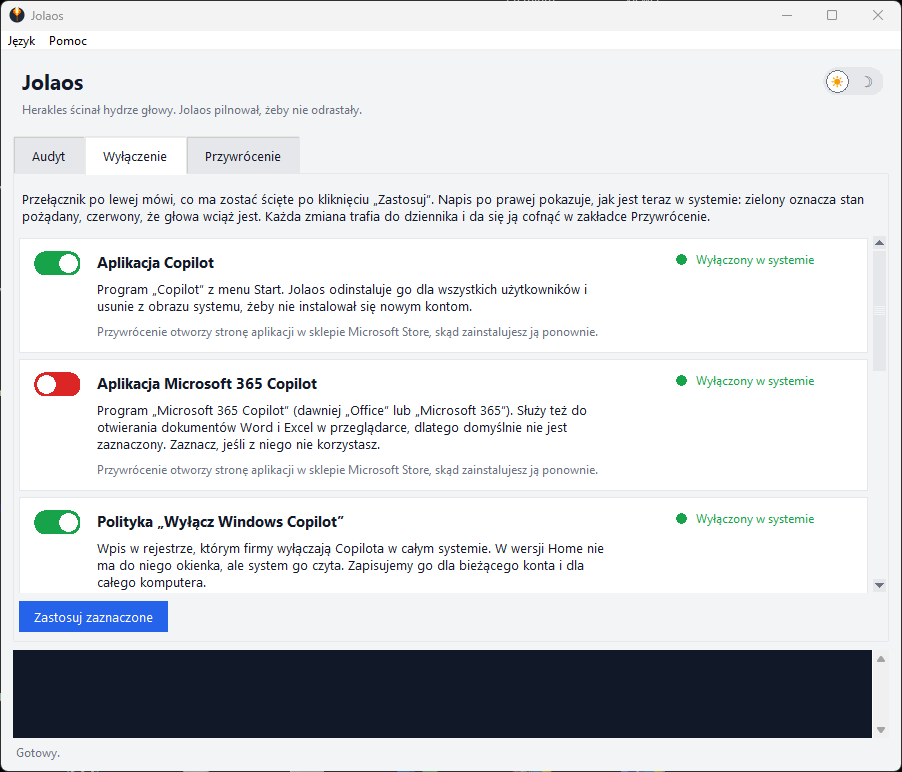
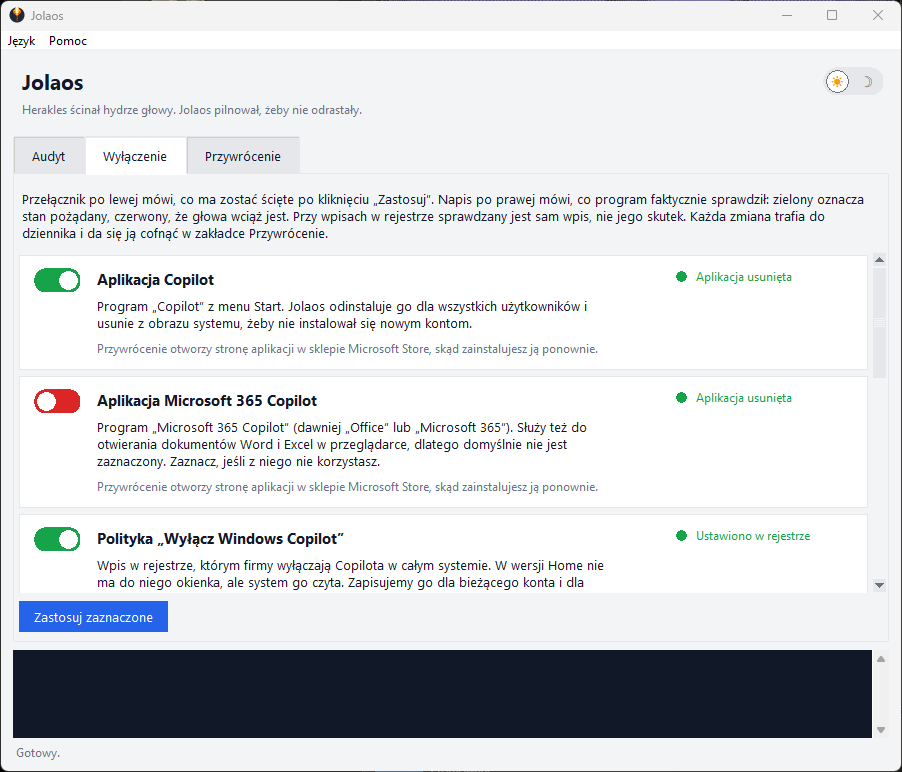
Say only what was checked in the status labels
- registry-based items report "Set in the registry" / "No registry
  entry" instead of claiming the feature is disabled on the system;
  only the program checks the entry, not whether Windows honours it
- store apps report "App installed" / "App removed", which is what
  the package query actually verifies
- tab intros and README state this limitation plainly
- README screenshots refreshed, version 0.1.4

diff --git a/jolaos/i18n.py b/jolaos/i18n.py
@@ -30,9 +30,10 @@ _PL = {
     "tab.restore": "Przywrócenie",
     "audit.intro": (
         "Tu niczego nie zmieniamy. Program tylko sprawdza, w których miejscach Copilot "
-        "jest obecny na tym komputerze. Od tego warto zacząć. Napis po prawej opisuje "
-        "stan w systemie: zielony oznacza, że jest tak, jak chcemy, czerwony, że hydra "
-        "ma tu głowę."
+        "jest obecny na tym komputerze. Od tego warto zacząć. Napis po prawej mówi, co "
+        "program faktycznie sprawdził: zielony oznacza stan, jakiego chcemy, czerwony, że "
+        "hydra ma tu głowę. Przy wpisach w rejestrze sprawdzany jest sam wpis, nie to, czy "
+        "Windows go honoruje."
     ),
     "audit.run": "Sprawdź teraz",
     "audit.running": "Sprawdzanie…",
@@ -40,9 +41,10 @@ _PL = {
     "audit.no_report": "Strażnik nie zostawił jeszcze żadnego raportu.",
     "disable.intro": (
         "Przełącznik po lewej mówi, co ma zostać ścięte po kliknięciu „Zastosuj”. Napis "
-        "po prawej pokazuje, jak jest teraz w systemie: zielony oznacza stan pożądany, "
-        "czerwony, że głowa wciąż jest. Każda zmiana trafia do dziennika i da się ją "
-        "cofnąć w zakładce Przywrócenie."
+        "po prawej mówi, co program faktycznie sprawdził: zielony oznacza stan pożądany, "
+        "czerwony, że głowa wciąż jest. Przy wpisach w rejestrze sprawdzany jest sam wpis, "
+        "nie jego skutek. Każda zmiana trafia do dziennika i da się ją cofnąć w zakładce "
+        "Przywrócenie."
     ),
     "disable.run": "Zastosuj zaznaczone",
     "disable.running": "Wprowadzanie zmian…",
@@ -71,6 +73,11 @@ _PL = {
     "status.error": "Nie udało się sprawdzić",
     "status.guard_missing": "Strażnik nie działa",
     "status.guard_active": "Strażnik czuwa",
+    "status.reg_present": "Brak wpisu w rejestrze",
+    "status.reg_absent": "Ustawiono w rejestrze",
+    "status.reg_partial": "Wpis w rejestrze niepełny",
+    "status.app_present": "Aplikacja zainstalowana",
+    "status.app_absent": "Aplikacja usunięta",
     "status.ready": "Gotowy.",
     "status.need_restart": "Niektóre zmiany zadziałają dopiero po ponownym uruchomieniu komputera.",
     "status.need_relogin": "Niektóre zmiany zobaczysz po ponownym zalogowaniu lub restarcie Eksploratora.",
@@ -145,9 +152,10 @@ _EN = {
     "tab.restore": "Restore",
     "audit.intro": (
         "Nothing is changed here. The program only checks where Copilot is present on "
-        "this computer. This is the place to start. The label on the right describes the "
-        "current state of the system: green means it is the way we want it, red means "
-        "the Hydra still has a head here."
+        "this computer. This is the place to start. The label on the right says what the "
+        "program actually checked: green is the state we want, red means the Hydra still "
+        "has a head here. For registry entries only the entry itself is checked, not "
+        "whether Windows honours it."
     ),
     "audit.run": "Check now",
     "audit.running": "Checking…",
@@ -155,9 +163,10 @@ _EN = {
     "audit.no_report": "The guard has not left a report yet.",
     "disable.intro": (
         "The switch on the left says what will be cut off when you click Apply. The label "
-        "on the right shows the current state of the system: green is the desired state, "
-        "red means the head is still there. Every change is written to a journal and can "
-        "be undone on the Restore tab."
+        "on the right says what the program actually checked: green is the desired state, "
+        "red means the head is still there. For registry entries only the entry itself is "
+        "checked, not its effect. Every change is written to a journal and can be undone "
+        "on the Restore tab."
     ),
     "disable.run": "Apply selected",
     "disable.running": "Applying changes…",
@@ -185,6 +194,11 @@ _EN = {
     "status.error": "Could not check",
     "status.guard_missing": "Guard not running",
     "status.guard_active": "Guard is watching",
+    "status.reg_present": "No registry entry",
+    "status.reg_absent": "Set in the registry",
+    "status.reg_partial": "Registry entry incomplete",
+    "status.app_present": "App installed",
+    "status.app_absent": "App removed",
     "status.ready": "Ready.",
     "status.need_restart": "Some changes take effect after a restart of the computer.",
     "status.need_relogin": "Some changes appear after signing in again or restarting Explorer.",

diff --git a/jolaos/heads.py b/jolaos/heads.py
@@ -71,9 +71,21 @@ class Head:
 # Głowy oparte na rejestrze
 
 
+REGISTRY_LABELS = {
+    Status.PRESENT: "status.reg_present",
+    Status.ABSENT: "status.reg_absent",
+    Status.PARTIAL: "status.reg_partial",
+}
+APP_LABELS = {
+    Status.PRESENT: "status.app_present",
+    Status.ABSENT: "status.app_absent",
+}
+
+
 @dataclass
 class RegistryHead(Head):
     values: tuple[RegValue, ...] = ()
+    status_labels: dict[Status, str] = field(default_factory=lambda: dict(REGISTRY_LABELS))
 
     def audit(self) -> AuditResult:
         matched = 0
@@ -129,6 +141,7 @@ class RegistryHead(Head):
 class AppxHead(Head):
     package_names: tuple[str, ...] = ()
     store_id: str = ""
+    status_labels: dict[Status, str] = field(default_factory=lambda: dict(APP_LABELS))
 
     def _query(self) -> tuple[list[dict], list[dict]]:
         names = ", ".join(f"'{n}'" for n in self.package_names)
@@ -221,6 +234,8 @@ def build_scancode_map(entries: list[tuple[int, int]]) -> bytes:
 
 @dataclass
 class CopilotKeyHead(Head):
+    status_labels: dict[Status, str] = field(default_factory=lambda: dict(REGISTRY_LABELS))
+
     def _current(self) -> tuple[bytes | None, list[tuple[int, int]]]:
         current = winapi.read_value("HKLM", SCANCODE_PATH, SCANCODE_NAME)
         raw = bytes.fromhex(current["data"]) if current and current["kind"] == "binary" else None

diff --git a/jolaos/__init__.py b/jolaos/__init__.py
@@ -1,4 +1,4 @@
 """Jolaos wyłącza Copilota w Windows 11 Home i pilnuje, żeby nie wrócił."""
 
-__version__ = "0.1.3"
+__version__ = "0.1.4"
 APP_NAME = "Jolaos"

diff --git a/README.md b/README.md
@@ -79,6 +79,7 @@ Nieśmiertelnej głowy Herakles nie zabił. Przywalił ją kamieniem i poszedł 
 - Nie gwarantuje, że następna wersja Windows nie przyniesie Copilota w nowym miejscu. Gwarantuje, że to zauważy.
 - Nie zastępuje zasad grupy ani Intune w firmie. Jeśli zarządzasz flotą komputerów, użyj narzędzi do tego przeznaczonych.
 - Nie potrafi ponownie zainstalować usuniętej aplikacji ze sklepu. Przy przywracaniu otwiera jej stronę w Microsoft Store, resztę robisz sam.
+- Nie sprawdza, czy Windows honoruje wpis w rejestrze. Zielony napis „Ustawiono w rejestrze” znaczy dokładnie tyle, ile mówi. Czy przycisk zniknął z paska zadań, widzisz sam na pasku zadań. Tylko przy aplikacjach ze sklepu i strażniku program sprawdza faktyczny stan.
 
 ## Zanim uruchomisz
 
